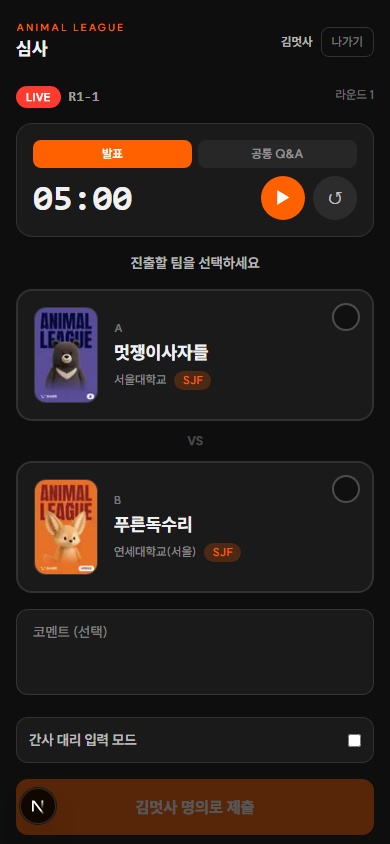
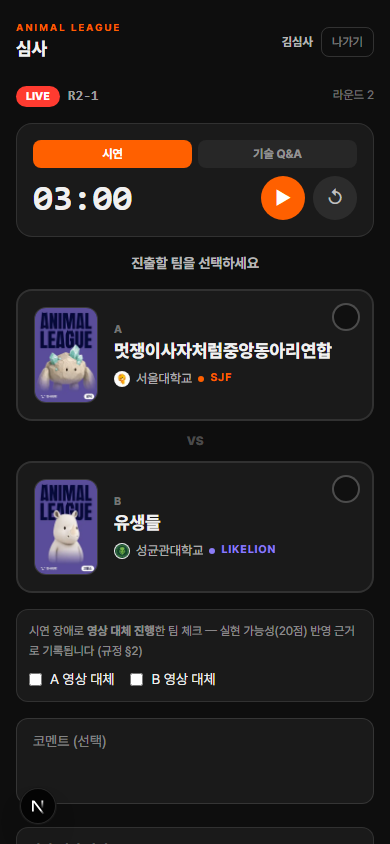
style: surface school identity, stop clipping team names
'학교가 묻힌다 · 팀명이 잘린다'는 피드백. 이 대회는 학교마다 전용 캐릭터가 있을
만큼 학교가 정체성의 절반인데, 학교명이 소형 회색 텍스트로 깔리고 긴 이름은
말줄임으로 잘리고 있었다.

- SchoolTag 공용 컴포넌트 (components/ui): 대학 로고(80종, 기존엔 운영 팀 관리만
  사용) + 학교명 + 트랙 도트. 로고는 어두운 배경에서 뭉개지지 않게 흰 원형 칩.
  글씨가 좁아 잘려도 로고가 학교를 말해준다. 대비 white/45 → 65
- 팀명 말줄임 제거 → 2줄 줄바꿈 (line-clamp-2). 처음엔 break-keep 을 썼다가
  걷어냈다 — 공백 없는 한글 팀명('멋쟁이사자처럼중앙동아리연합')은 keep-all 이
  줄바꿈 지점을 없애 오히려 한 줄로 잘린다. 한글 기본값이 음절 단위 줄바꿈이라
  기본값이 정답. 포커스·우승 화면은 text-wrap balance 로 줄 균형
- 적용 범위: 스크린(브래킷 카드·포커스·투표 시퀀스·우승) + 심사 탭 카드.
  운영 화면은 자체 표기 유지 (도구 화면이라 로고 칩 밀도가 오히려 소음)

함께 복구 — fix(judge) 반응형 커밋(9bdd8fb)이 PR #10 머지 3분 뒤 푸시로 유실돼
main 에 없던 것을 발견, cherry-pick 으로 포함 (노트북에서 심사 카드 좌우 대형 배치).

검증 — 14자 팀명 2줄 표시·9자 팀명 줄바꿈·로고 칩 실캡처 4장 (viewer 2 · judge 2),
tsc · eslint · 테스트 38건 통과.

diff --git a/app/page.tsx b/app/page.tsx
@@ -13,7 +13,7 @@
 
 import { useCallback, useEffect, useRef, useState } from 'react';
 import Image from 'next/image';
-import { CharacterArt, TrackBadge } from '@/components/ui';
+import { CharacterArt, SchoolTag } from '@/components/ui';
 import { winningTeamId, type Match, type Team } from '@/lib/tournament';
 
 type PublicState = { teams: Team[]; matches: Match[]; rev: number };
@@ -80,12 +80,16 @@ function TeamRow({
         sizes={lg ? '64px' : '56px'}
       />
       <div className="min-w-0 flex-1">
-        <div className={`truncate font-extrabold leading-tight tracking-tight ${lg ? 'text-[26px]' : 'text-[22px]'}`}>
+        {/* 팀명은 자르지 않는다 — 2줄까지 단어 단위 줄바꿈 (자른 팀명은 무대에서 틀린 이름이다) */}
+        <div
+          className={`line-clamp-2 font-extrabold leading-tight tracking-tight ${lg ? 'text-[26px]' : 'text-[22px]'}`}
+        >
           {teamName(state, index)}
         </div>
-        <div className={`mt-0.5 flex items-center gap-2.5 text-white/45 ${lg ? 'text-sm' : 'text-[13px]'}`}>
-          <span className="truncate">{team?.school || (index === null ? '' : '학교 미입력')}</span>
-          {team && index !== null && <TrackBadge track={team.track} />}
+        <div className="mt-1">
+          {team && index !== null ? (
+            <SchoolTag school={team.school || '학교 미입력'} track={team.track} size={lg ? 'md' : 'sm'} />
+          ) : null}
         </div>
       </div>
       {isWinner && (
@@ -278,12 +282,14 @@ function TeamHero({
         className={`aspect-2/3 ${compact ? 'w-36 lg:w-44' : 'w-44 lg:w-60'} ${winner ? 'shadow-[0_0_70px_rgba(255,96,0,0.4)]' : ''}`}
         sizes="(min-width: 1024px) 240px, 176px"
       />
-      <p className={`mt-5 font-extrabold leading-tight tracking-tight ${compact ? 'text-2xl lg:text-3xl' : 'text-3xl lg:text-5xl'}`}>
+      <p
+        className={`mt-5 max-w-full font-extrabold leading-tight tracking-tight ${compact ? 'text-2xl lg:text-3xl' : 'text-3xl lg:text-5xl'}`}
+        style={{ textWrap: 'balance' }}
+      >
         {teamName(state, index)}
       </p>
-      <div className="mt-2 flex items-center gap-2.5 text-sm text-white/50 lg:text-base">
-        <span>{team?.school}</span>
-        {team && index !== null && <TrackBadge track={team.track} />}
+      <div className="mt-2.5">
+        {team && index !== null && <SchoolTag school={team.school} track={team.track} size="lg" />}
       </div>
       {winner && (
         <span className="champion-rise mt-4 rounded-lg bg-(--orange) px-4 py-1.5 text-lg font-extrabold text-white">
@@ -415,15 +421,14 @@ function ChampionTakeover({ state, final }: { state: PublicState; final: Match }
             sizes="(min-width: 768px) 288px, 192px"
           />
         </div>
-        <h2 className="champion-rise mt-8 text-4xl font-extrabold tracking-tight md:text-6xl" style={{ animationDelay: '0.5s' }}>
+        <h2
+          className="champion-rise mt-8 max-w-full text-4xl font-extrabold tracking-tight md:text-6xl"
+          style={{ animationDelay: '0.5s', textWrap: 'balance' }}
+        >
           {teamName(state, index)}
         </h2>
-        <div
-          className="champion-rise mt-3 flex items-center gap-3 text-lg text-white/60 md:text-2xl"
-          style={{ animationDelay: '0.65s' }}
-        >
-          <span>{team?.school}</span>
-          {team && <TrackBadge track={team.track} />}
+        <div className="champion-rise mt-4" style={{ animationDelay: '0.65s' }}>
+          {team && <SchoolTag school={team.school} track={team.track} size="lg" />}
         </div>
       </div>
     </div>

diff --git a/components/ui.tsx b/components/ui.tsx
@@ -5,6 +5,7 @@
 // 리팩터는 별도 PR 로 미룸 — CONTRIBUTING "PR 단위").
 
 import Image from 'next/image';
+import universityLogos from '@/lib/universityLogos';
 import type { Track } from '@/lib/tournament';
 
 export const TRACK_COLORS: Record<Track, string> = {
@@ -20,6 +21,40 @@ export function TrackBadge({ track }: { track: Track }) {
     <span className="inline-flex shrink-0 items-center gap-1.5 text-[11px] font-bold tracking-[0.08em]" style={{ color: TRACK_COLORS[track] }}>
       <span className="h-1.5 w-1.5 rounded-full" style={{ background: TRACK_COLORS[track] }} aria-hidden />
       {track}
+    </span>
+  );
+}
+
+/**
+ * 학교 로고 + 학교명 + 트랙 도트 — 학교가 이 대회 정체성의 절반이라 묻히면 안 된다.
+ * 로고는 어두운 배경에서 뭉개지지 않게 흰 원형 칩에 담는다. 글씨가 좁아 잘려도
+ * 로고가 학교를 말해준다. 로고 매핑이 없는 학교는 이름만 표시.
+ */
+export function SchoolTag({
+  school,
+  track,
+  size = 'md',
+}: {
+  school: string;
+  track?: Track;
+  size?: 'sm' | 'md' | 'lg';
+}) {
+  const logo = universityLogos[school];
+  const logoPx = size === 'lg' ? 24 : size === 'md' ? 19 : 16;
+  const textCls = size === 'lg' ? 'text-base lg:text-lg' : size === 'md' ? 'text-sm' : 'text-[13px]';
+
+  return (
+    <span className={`inline-flex min-w-0 items-center gap-1.5 text-white/65 ${textCls}`}>
+      {logo && (
+        <span
+          className="relative shrink-0 overflow-hidden rounded-full bg-white/95"
+          style={{ width: logoPx, height: logoPx }}
+        >
+          <Image src={logo} alt="" fill sizes={`${logoPx}px`} className="object-contain p-px" />
+        </span>
+      )}
+      <span className="truncate break-keep">{school}</span>
+      {track && <TrackBadge track={track} />}
     </span>
   );
 }

diff --git a/app/judge/page.tsx b/app/judge/page.tsx
@@ -8,7 +8,7 @@
 // React 가 컴포넌트를 새로 마운트하게 한다 (§8 폼 초기화를 상태 정리 코드 없이 보장).
 
 import { useCallback, useEffect, useRef, useState } from 'react';
-import { CharacterArt, TrackBadge } from '@/components/ui';
+import { CharacterArt, SchoolTag } from '@/components/ui';
 import type { Match, Team, Side, Round } from '@/lib/tournament';
 
 // ------------------------------------------------------------
@@ -284,10 +284,11 @@ function JudgeForm({
           />
           <div className="min-w-0 flex-1 md:text-center">
             <div className="mb-0.5 text-[11px] font-bold text-white/40 md:text-xs">{side}</div>
-            <div className="truncate text-lg font-extrabold md:text-2xl">{team?.team || `팀 ${(index ?? 0) + 1}`}</div>
-            <div className="mt-1 flex items-center gap-2 text-xs text-white/50 md:justify-center md:text-sm">
-              <span className="truncate">{team?.school || '학교 미입력'}</span>
-              {team && <TrackBadge track={team.track} />}
+            <div className="line-clamp-2 text-lg font-extrabold leading-tight md:text-2xl">
+              {team?.team || `팀 ${(index ?? 0) + 1}`}
+            </div>
+            <div className="mt-1.5 flex md:justify-center">
+              {team && <SchoolTag school={team.school || '학교 미입력'} track={team.track} size="sm" />}
             </div>
           </div>
         </div>
